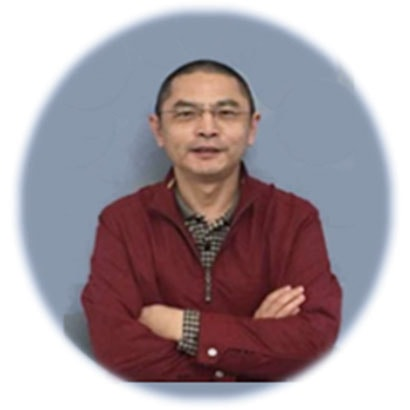
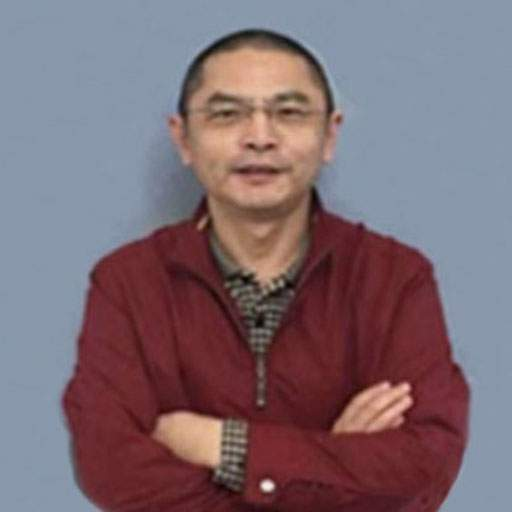
optimize images

diff --git a/app/views/groupIntroduction/groupIntroduction.html b/app/views/groupIntroduction/groupIntroduction.html
@@ -1,10 +1,21 @@
+<div class="breadcrumb-container marginTop80">
+    <div class="container">
+        <ol class="breadcrumb">
+            <li class="breadcrumb-item">
+                <i class="fa fa-home pr-2"></i>
+                <a href="index.html">{{'HOME' | translate}}</a>
+            </li>
+            <li class="breadcrumb-item active">{{'GROUPINTRODUCTION' | translate }}</li>
+        </ol>
+    </div>
+</div>
 <section class="main-container paddingBoxHome heightCharman">
     <div class="container">
         <div class="row">
             <div class="main padding0">
             <!-- <div class="main col-lg-8 padding0"> -->
-                <h3 class="page-title">{{'GROUPINTRODUCTION' | translate }}</h3>
-                <div class="separator-2"></div>
+                <!-- <h3 class="page-title">{{'GROUPINTRODUCTION' | translate }}</h3>
+                <div class="separator-2"></div> -->
                 <p>胡巴控股集团坐落于杭州中央金融商务区——钱江新城核心商务区，是一家聚焦不良资产收购、管理、处置及相关资金配套业务的一站式专业服务的资产管理公司。自创办以来，深耕于不良资产领域，目前已形成以集团为核心，集不良资产服务业务（胡巴资产）、资金配套业务（投讯）、不良资产大数据业务（讯拓）三位一体的国内领先、专业的不良资产交易服务及管理平台。</p>
                 <p>胡巴资产自2009年进入不良资产管理行业以来，目前处置管理的债权总额累计约300亿元，现管理债权金额约100亿元，为江苏资产、海岸投资、太盟集团等众多投资及民营资本提供全流程的不良资产投资管理服务。2018年5月，与平安普惠达成资产处置战略合作；与广东金叶集团、肇庆金叶阳光地产、浙江爱杭基金达成战略合作。</p>
                 <p>投讯资产自2015年成立以来，与江苏资产成立苏讯、苏讯嘉投资中心，拟投资规模30亿，下设全资子公司浙江湖讯、无锡苏湖及张家港苏湖，另设立有限合伙12家。</p>

diff --git a/app/views/organizationStructure/organizationStructure.html b/app/views/organizationStructure/organizationStructure.html
@@ -1,12 +1,21 @@
-<!-- main-container start -->
-<!-- ================ -->
+<div class="breadcrumb-container marginTop80">
+    <div class="container">
+        <ol class="breadcrumb">
+            <li class="breadcrumb-item">
+                <i class="fa fa-home pr-2"></i>
+                <a href="index.html">{{'HOME' | translate}}</a>
+            </li>
+            <li class="breadcrumb-item active">{{'STRUCTURE' | translate }}</li>
+        </ol>
+    </div>
+</div>
 <section class="main-container paddingBoxHome">
     <div class="container">
         <div class="row">
             <div class="main padding0">
             <!-- <div class="main col-lg-8 padding0"> -->
-                <h3 class="page-title">{{'STRUCTURE' | translate }}</h3>
-                <div class="separator-2"></div>
+                <!-- <h3 class="page-title">{{'STRUCTURE' | translate }}</h3>
+                <div class="separator-2"></div> -->
                 <img class="structureImage" src="images/structure.jpg">
                 <img class="structureImage marginMap marginBottom30" src="images/map.png">
                 <p class="marginTop10">目前，胡巴集团形成以杭州总部为核心，业务范围覆盖浙江、江苏、上海、安徽、山东、河南、湖南、广东、四川、黑龙江等沿海及发达内陆城市，并将加速拓展其他区域特殊资产的处置业务。</p>

diff --git a/app/views/charman/charman.html b/app/views/charman/charman.html
@@ -1,12 +1,21 @@
-<!-- main-container start -->
-<!-- ================ -->
+<div class="breadcrumb-container marginTop80">
+    <div class="container">
+        <ol class="breadcrumb">
+            <li class="breadcrumb-item">
+                <i class="fa fa-home pr-2"></i>
+                <a href="index.html">{{'HOME' | translate}}</a>
+            </li>
+            <li class="breadcrumb-item active">{{'CHAIRMAN' | translate }}</li>
+        </ol>
+    </div>
+</div>
 <section class="main-container paddingBoxHome heightCharman">
     <div class="container">
         <div class="row">
             <div class="main padding0">
             <!-- <div class="main col-lg-8 padding0"> -->
-                <h3 class="page-title">{{'CHAIRMAN' | translate }}</h3>
-                <div class="separator-2"></div>
+                <!-- <h3 class="page-title">{{'CHAIRMAN' | translate }}</h3>
+                <div class="separator-2"></div> -->
                 <p>胡巴资产是不良资产投资管理服务提供商，一直秉承着“让社会闲置资源合理利用，创造社会价值”的理念，为众多投资机构及民营资本创造了丰厚收益，我们诚邀社会各界人士精诚合作，创造我们共同追求的财富价值，分享成功合作的喜悦与成果。</p>
             </div>
             <!-- <aside class="col-lg-4 col-xl-3 ml-xl-auto">

diff --git a/app/views/bussinesSystem/bussinesSystem.html b/app/views/bussinesSystem/bussinesSystem.html
@@ -1,13 +1,22 @@
-<!-- main-container start -->
-<!-- ================ -->
+<div class="breadcrumb-container marginTop80">
+    <div class="container">
+        <ol class="breadcrumb">
+            <li class="breadcrumb-item">
+                <i class="fa fa-home pr-2"></i>
+                <a href="index.html">{{'HOME' | translate}}</a>
+            </li>
+            <li class="breadcrumb-item active">{{'BSYSTEM' | translate }}</li>
+        </ol>
+    </div>
+</div>
 <section class="main-container paddingBoxHome">
     <div class="container">
         <div class="row">
             <div class="main padding0">
-            <!-- <div class="main col-lg-8 padding0"> -->
-                <h3 class="page-title">{{'BSYSTEM' | translate }}</h3>
-                <div class="separator-2"></div>
-                <img src="images/bsystem.jpg">
+                <!-- <div class="main col-lg-8 padding0"> -->
+                <!-- <h3 class="page-title">{{'BSYSTEM' | translate }}</h3>
+                <div class="separator-2"></div> -->
+                <img class="marginMap" src="images/bsystem.jpg">
             </div>
             <!-- <aside class="col-lg-4 col-xl-3 ml-xl-auto">
                 <div class="sidebar">

diff --git a/app/views/devHistory/devHistory.html b/app/views/devHistory/devHistory.html
@@ -1,11 +1,20 @@
-<!-- main-container start -->
-<!-- ================ -->
+<div class="breadcrumb-container marginTop80">
+    <div class="container">
+        <ol class="breadcrumb">
+            <li class="breadcrumb-item">
+                <i class="fa fa-home pr-2"></i>
+                <a href="index.html">{{'HOME' | translate}}</a>
+            </li>
+            <li class="breadcrumb-item active">{{'DEVHISTORY' | translate }}</li>
+        </ol>
+    </div>
+</div>
 <section class="main-container paddingBoxHome">
     <div class="container">
         <div class="row">
             <div class="main col-lg-12 padding0">
-                <h3 class="page-title">{{'DEVHISTORY' | translate }}</h3>
-                <div class="separator-2 marginBottom0 backgroundColorPrimary"></div>
+                <!-- <h3 class="page-title">{{'DEVHISTORY' | translate }}</h3>
+                <div class="separator-2 marginBottom0 backgroundColorPrimary"></div> -->
                 <div class="timeline clearfix">
                     <div class="timeline-date-label clearfix">2009</div>
                     <div class="timeline-item">

diff --git a/app/views/branches-offices/branches-offices.html b/app/views/branches-offices/branches-offices.html
@@ -1,12 +1,21 @@
-<!-- main-container start -->
-<!-- ================ -->
+<div class="breadcrumb-container marginTop80">
+    <div class="container">
+        <ol class="breadcrumb">
+            <li class="breadcrumb-item">
+                <i class="fa fa-home pr-2"></i>
+                <a href="index.html">{{'HOME' | translate}}</a>
+            </li>
+            <li class="breadcrumb-item active">{{'BOFFICES' | translate }}</li>
+        </ol>
+    </div>
+</div>
 <section class="main-container paddingBoxHome">
     <div class="container">
         <div class="row">
             <div class="main padding0">
             <!-- <div class="main col-lg-8 padding0"> -->
-                <h3 class="page-title">{{'BOFFICES' | translate }}</h3>
-                <div class="separator-2"></div>
+                <!-- <h3 class="page-title">{{'BOFFICES' | translate }}</h3>
+                <div class="separator-2"></div> -->
                 <div>   
                     <h4>杭州总部</h4>
                     <p class="icon-Offices"> 杭州市江干区城星路111号钱江国际时代广场3幢2701室</p>

diff --git a/app/views/bussinesProcess/bussinesProcess.html b/app/views/bussinesProcess/bussinesProcess.html
@@ -1,12 +1,21 @@
-<!-- main-container start -->
-<!-- ================ -->
+<div class="breadcrumb-container marginTop80">
+    <div class="container">
+        <ol class="breadcrumb">
+            <li class="breadcrumb-item">
+                <i class="fa fa-home pr-2"></i>
+                <a href="index.html">{{'HOME' | translate}}</a>
+            </li>
+            <li class="breadcrumb-item active">{{'SPROCESS' | translate }}</li>
+        </ol>
+    </div>
+</div>
 <section class="main-container paddingBoxHome">
     <div class="container">
         <div class="row">
             <div class="main padding0">
             <!-- <div class="main col-lg-8 padding0"> -->
-                <h3 class="page-title">{{'BSYSTEM' | translate }}</h3>
-                <div class="separator-2"></div>
+                <!-- <h3 class="page-title">{{'BSYSTEM' | translate }}</h3>
+                <div class="separator-2"></div> -->
                 <img src="images/Proceso-de-negocio.jpg">
             </div>
             <!-- <aside class="col-lg-4 col-xl-3 ml-xl-auto">

diff --git a/app/views/featured-cases/featured-cases.html b/app/views/featured-cases/featured-cases.html
@@ -1,12 +1,21 @@
-<!-- main-container start -->
-<!-- ================ -->
+<div class="breadcrumb-container marginTop80">
+    <div class="container">
+        <ol class="breadcrumb">
+            <li class="breadcrumb-item">
+                <i class="fa fa-home pr-2"></i>
+                <a href="index.html">{{'HOME' | translate}}</a>
+            </li>
+            <li class="breadcrumb-item active">{{'FCASES' | translate }}</li>
+        </ol>
+    </div>
+</div>
 <section class="main-container paddingBoxHome">
     <div class="container">
         <div class="row">
             <!-- <div class="main col-lg-8 padding0"> -->
             <div class="main padding0">
-                <h3 class="page-title">{{'FCASES' | translate }}</h3>
-                <div class="separator-2"></div>
+                <!-- <h3 class="page-title">{{'FCASES' | translate }}</h3>
+                <div class="separator-2"></div> -->
                 <div class="marginTop20">
                     <div class="row">
                         <div class="col-lg-3 col-md-6">

diff --git a/app/views/coreTeam/coreTeam.html b/app/views/coreTeam/coreTeam.html
@@ -1,12 +1,21 @@
-<!-- main-container start -->
-<!-- ================ -->
+<div class="breadcrumb-container marginTop80">
+    <div class="container">
+        <ol class="breadcrumb">
+            <li class="breadcrumb-item">
+                <i class="fa fa-home pr-2"></i>
+                <a href="index.html">{{'HOME' | translate}}</a>
+            </li>
+            <li class="breadcrumb-item active">{{'CORETEAM' | translate }}</li>
+        </ol>
+    </div>
+</div>
 <section class="main-container paddingBoxHome">
     <div class="container">
         <div class="row">
             <div class="main padding0">
                 <!-- <div class="main col-lg-8 padding0"> -->
-                <h3 class="page-title">{{'CORETEAM' | translate }}</h3>
-                <div class="separator-2"></div>
+                <!-- <h3 class="page-title">{{'CORETEAM' | translate }}</h3>
+                <div class="separator-2"></div> -->
 
                 <div class="row grid-space-10">
                     <div class="col-md-4 col-lg-3">

diff --git a/app/css/custom.css b/app/css/custom.css
@@ -903,10 +903,7 @@ ul.pagination .page-item.active .page-link,
         padding-top: 80px !important;
     }
     .paddingBoxHome {
-        padding-top: 120px;
-        padding-left: 60px;
-        padding-right: 60px;
-        padding-bottom: 60px;
+        padding: 60px;
         background-color: #fafafa !important;
     }
     .paddingLeftButtonSendCode {
@@ -942,7 +939,7 @@ ul.pagination .page-item.active .page-link,
         min-height: 295px !important;
     }
     .heightCharman{
-        min-height: 600px !important;
+        min-height: 480px !important;
     }
     .marginMap{
         margin-left: 8% !important;
@@ -985,6 +982,7 @@ ul.pagination .page-item.active .page-link,
 
 .tp-bannertimer {
     background-color: #ff6700 !important;
+    width: 100% !important;
 }
 
 .logo_img_mobile {
@@ -1021,4 +1019,8 @@ ul.pagination .page-item.active .page-link,
 
 .marginBottom30{
     margin-bottom: 30px !important;
+}
+
+.marginTop80{
+    margin-top: 80px !important;
 }

diff --git a/app/views/wishlist/wishlist.html b/app/views/wishlist/wishlist.html
@@ -1,10 +1,21 @@
+<div class="breadcrumb-container marginTop80">
+  <div class="container">
+      <ol class="breadcrumb">
+          <li class="breadcrumb-item">
+              <i class="fa fa-home pr-2"></i>
+              <a href="index.html">{{'HOME' | translate}}</a>
+          </li>
+          <li class="breadcrumb-item active">{{'WISHLIST' | translate }}</li>
+      </ol>
+  </div>
+</div>
 <section class="main-container">
   <section class="main-container">
     <div class="container">
       <div class="row">
         <div class="main col-12">
-          <h1 class="page-title">{{'WISHLIST' | translate}}</h1>
-          <div class="separator-2"></div>
+          <!-- <h1 class="page-title">{{'WISHLIST' | translate}}</h1>
+          <div class="separator-2"></div> -->
           <table class="table cart table-hover table-colored">
             <thead>
               <tr>

diff --git a/app/views/news/news.html b/app/views/news/news.html
@@ -1,3 +1,14 @@
+<div class="breadcrumb-container marginTop80">
+  <div class="container">
+      <ol class="breadcrumb">
+          <li class="breadcrumb-item">
+              <i class="fa fa-home pr-2"></i>
+              <a href="index.html">{{'HOME' | translate}}</a>
+          </li>
+          <li class="breadcrumb-item active">{{'NEWS' | translate }}</li>
+      </ol>
+  </div>
+</div>
 <div class="paddingBoxHome">
   <div class="container">
     <div class="row">
@@ -29,7 +40,7 @@
               <div class="col-lg-9">
                 <header>
                   <h3>
-                    <a href="">{{f.title}}</a>
+                    <a href="" ng-click="goToProject(f.id)">{{f.title}}</a>
                   </h3>
                   <div class="post-info">
                     <span class="post-date">
